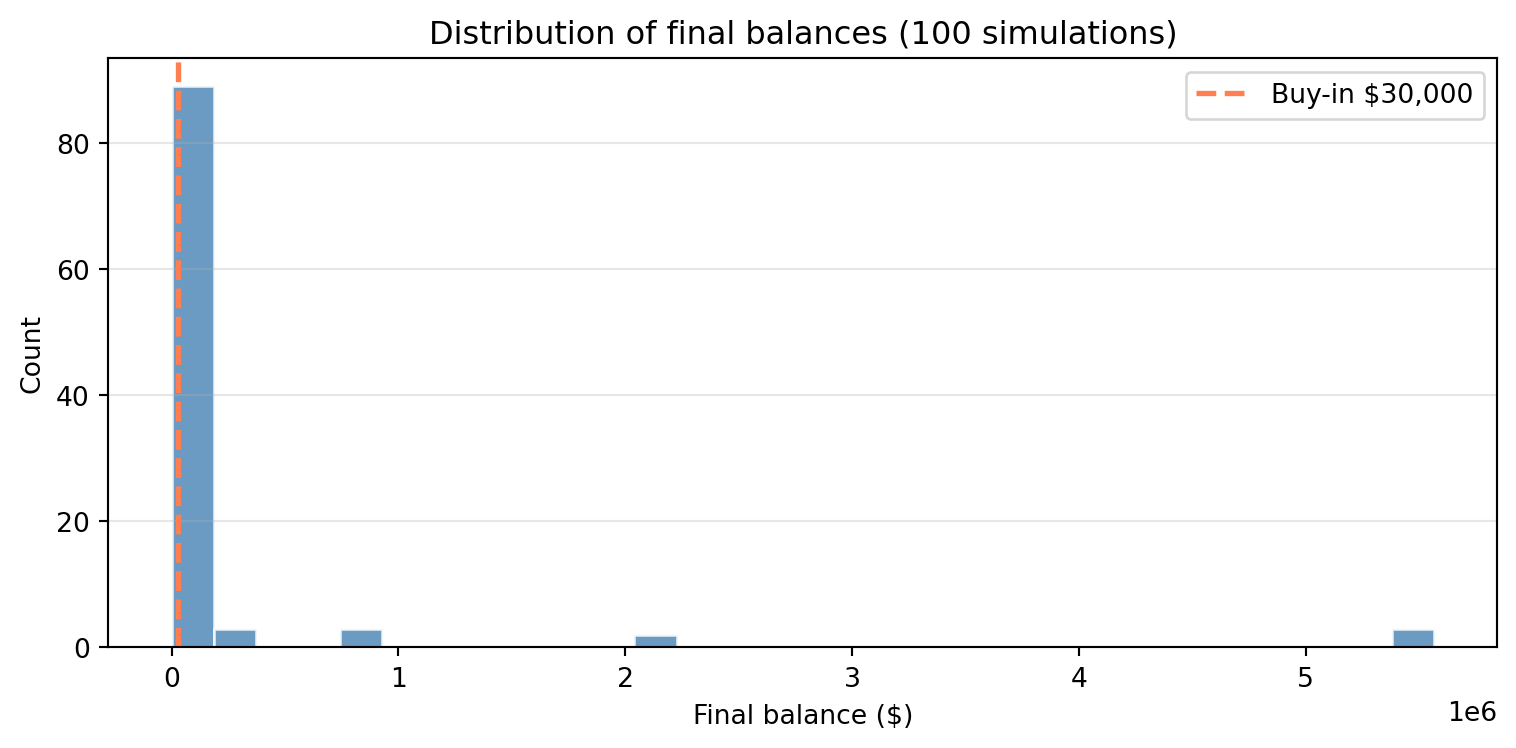
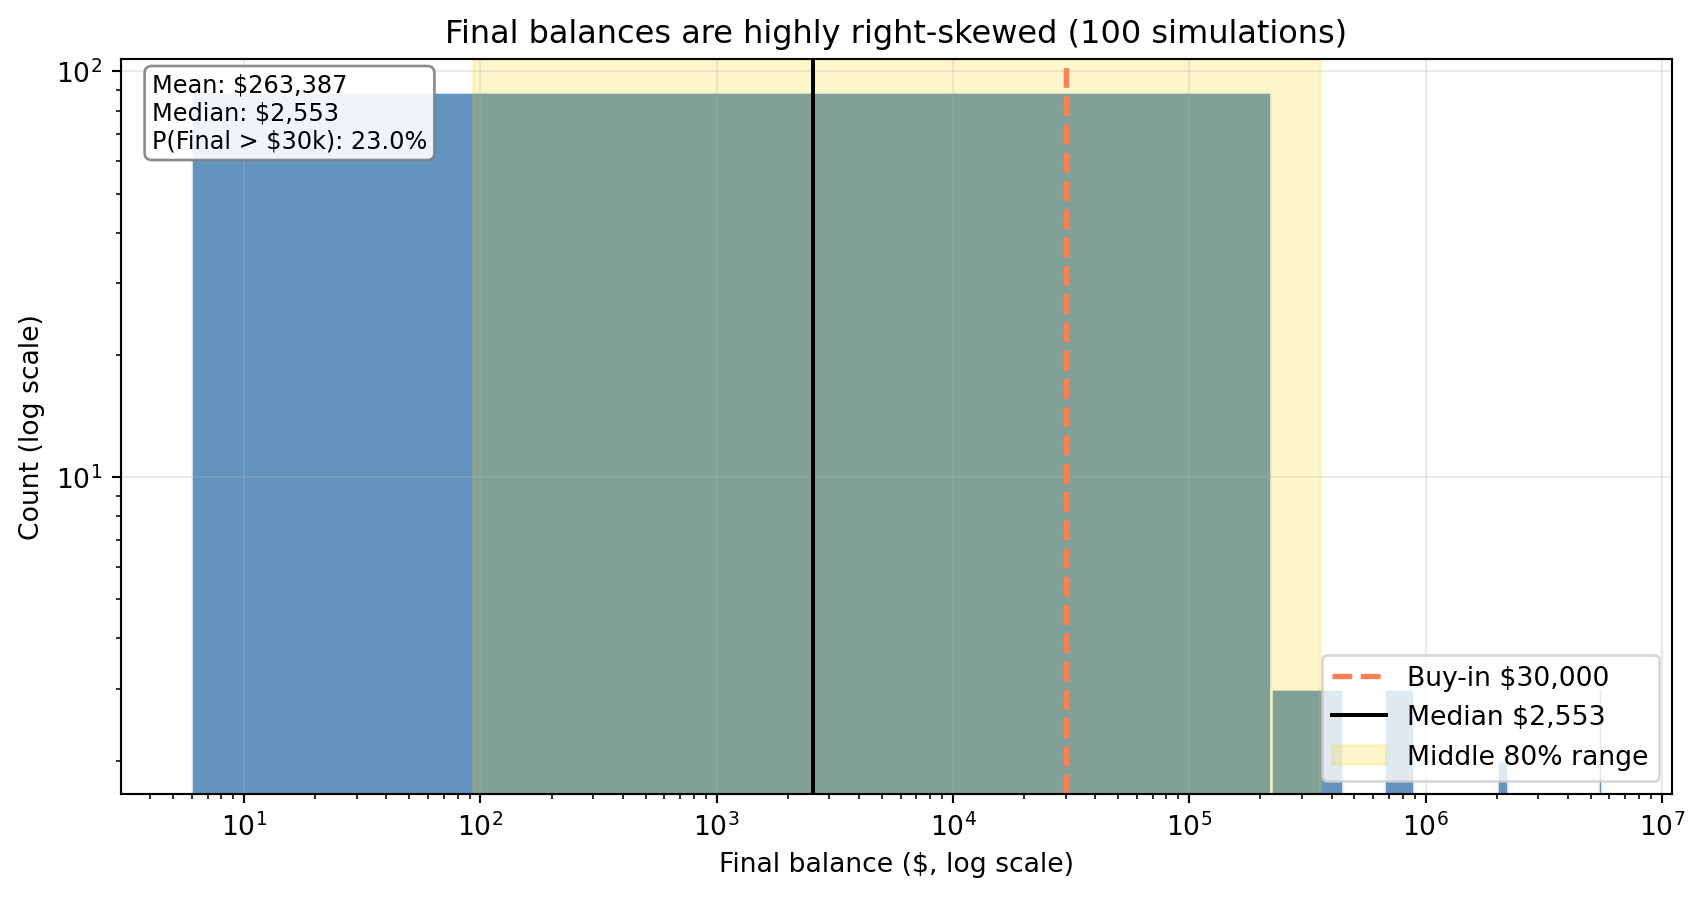
Changes

diff --git a/index.html b/index.html
@@ -71,35 +71,6 @@ pre > code.sourceCode > span > a:first-child::before { text-decoration: underlin
 <link href="index_files/libs/bootstrap/bootstrap-icons.css" rel="stylesheet">
 <link href="index_files/libs/bootstrap/bootstrap-9e3ffae467580fdb927a41352e75a2e0.min.css" rel="stylesheet" append-hash="true" id="quarto-bootstrap" data-mode="light">
 
-  <script src="https://cdnjs.cloudflare.com/polyfill/v3/polyfill.min.js?features=es6"></script>
-  <script src="https://cdn.jsdelivr.net/npm/mathjax@3/es5/tex-chtml-full.js" type="text/javascript"></script>
-
-<script type="text/javascript">
-const typesetMath = (el) => {
-  if (window.MathJax) {
-    // MathJax Typeset
-    window.MathJax.typeset([el]);
-  } else if (window.katex) {
-    // KaTeX Render
-    var mathElements = el.getElementsByClassName("math");
-    var macros = [];
-    for (var i = 0; i < mathElements.length; i++) {
-      var texText = mathElements[i].firstChild;
-      if (mathElements[i].tagName == "SPAN" && texText && texText.data) {
-        window.katex.render(texText.data, mathElements[i], {
-          displayMode: mathElements[i].classList.contains('display'),
-          throwOnError: false,
-          macros: macros,
-          fleqn: false
-        });
-      }
-    }
-  }
-}
-window.Quarto = {
-  typesetMath
-};
-</script>
 
 </head>
 
@@ -222,7 +193,7 @@ window.Quarto = {
 <ul>
 <li><strong>Round figures</strong> for readability (whole dollars for balances, 2-3 decimals for probabilities)</li>
 <li><strong>Interpret results</strong> in your own words outside of code chunks</li>
-<li>Use Quarto inline code (e.g., <code>`{python} round(ev, 0)`</code>) or type values directly</li>
+<li>Type rounded values directly in the narrative (they should match your code output), or use Quarto inline code if your render environment runs Python</li>
 </ul>
 <p><strong>Example:</strong> Instead of printing <code>36000.0</code> from code, write:</p>
 <blockquote class="blockquote">
@@ -263,7 +234,7 @@ Figure&nbsp;1: Generative DAG model for the investment game showing how wealth e
 <section id="expected-value-after-1-flip" class="level3">
 <h3 class="anchored" data-anchor-id="expected-value-after-1-flip">1) Expected Value After 1 Flip</h3>
 <p>Explain whether the expected value of your account balance after one flip is greater than, equal to, or less than $30,000. What is the gain in expected value as a percentage of your buy-in? Based on this simple analysis, state whether you would recommend buying into the game and why.</p>
-<p>The expected value after one flip is <strong>${=python} f”{round(ev_one_flip, 0):,.0f}“}</strong>, which is <strong>{=python} round(ev_gain_pct, 1)}%</strong> above the $30,000 buy-in. So the one-flip expected value is <em>greater than</em> the buy-in. That happens because the gain on heads (+50%) is larger in magnitude than the loss on tails (-40%), and the coin is fair. On this simple metric alone, the game has positive expected value, so one might be tempted to buy in—but as we will see, playing for many years changes the story because of compounding and the high chance of long losing streaks.</p>
+<p>The expected value after one flip is <strong>$31,500</strong>, which is <strong>5.0%</strong> above the $30,000 buy-in. So the one-flip expected value is <em>greater than</em> the buy-in. That happens because the gain on heads (+50%) is larger in magnitude than the loss on tails (-40%), and the coin is fair. On this simple metric alone, the game has positive expected value, so one might be tempted to buy in—but as we will see, playing for many years changes the story because of compounding and the high chance of long losing streaks.</p>
 </section>
 <section id="single-simulation-over-time-narrative-plot" class="level3">
 <h3 class="anchored" data-anchor-id="single-simulation-over-time-narrative-plot">2) Single Simulation Over Time (Narrative + Plot)</h3>
@@ -278,7 +249,7 @@ Figure&nbsp;1: Generative DAG model for the investment game showing how wealth e
 </div>
 </div>
 </div>
-<p>In this run, the balance follows one possible path over <strong>{=python} N_years}</strong> years and ends at <strong>${=python} f”{round(final_balance_single, 0):,.0f}“}</strong>. Whether you would be satisfied depends on your goals: if the path stayed mostly above $30,000 and finished higher, you might be pleased; if it dipped and stayed below the buy-in, you would likely be disappointed. One path alone is not enough to judge the game—we need many simulations to see the distribution of outcomes.</p>
+<p>In this run, the balance follows one possible path over <strong>40</strong> years and ends at <strong>$22,796</strong>. Whether you would be satisfied depends on your goals: if the path stayed mostly above $30,000 and finished higher, you might be pleased; if it dipped and stayed below the buy-in, you would likely be disappointed. One path alone is not enough to judge the game—we need many simulations to see the distribution of outcomes.</p>
 </section>
 <section id="simulations-distribution-of-final-balances" class="level3">
 <h3 class="anchored" data-anchor-id="simulations-distribution-of-final-balances">3) 100 Simulations: Distribution of Final Balances</h3>
@@ -287,18 +258,18 @@ Figure&nbsp;1: Generative DAG model for the investment game showing how wealth e
 <div class="cell-output cell-output-display">
 <div id="q3-dist-100-py" class="quarto-figure quarto-figure-center anchored">
 <figure class="figure">
-<p><img src="index_files/figure-html/q3-dist-100-py-output-1.png" width="758" height="374" class="figure-img"></p>
-<figcaption>Distribution of final balances across 100 simulations</figcaption>
+<p><img src="index_files/figure-html/q3-dist-100-py-output-1.png" width="852" height="449" class="figure-img"></p>
+<figcaption>Distribution of final balances across 100 simulations (log scale with summary annotations)</figcaption>
 </figure>
 </div>
 </div>
 </div>
-<p>Across 100 simulations, the <strong>mean</strong> final balance is <strong><span class="math inline">\({=python} f"{round(mean_final, 0):,.0f}"}** and the **median** is **\)</span>{=python} f”{round(median_final, 0):,.0f}“}</strong>. The probability of ending with more than the initial $30,000 is <strong>{=python} round(prob_above_30k, 2)}</strong> (or {=python} round(prob_above_30k * 100, 1)}%). The median is well below the buy-in, which shows that <em>most</em> paths leave you worse off—even though the one-flip expected value is positive. That is the key tension: the game is favorable in expectation over one flip, but over many years the distribution is skewed and the typical outcome is a loss. Many people would not be satisfied with this risk profile.</p>
+<p>Across 100 simulations, the <strong>mean</strong> final balance is <strong>$263,387</strong> and the <strong>median</strong> is <strong>$2,553</strong>. The probability of ending with more than the initial $30,000 is <strong>about 23%</strong> (about <strong>23 out of 100</strong> simulated paths). The median is well below the buy-in, which shows that <em>most</em> paths leave you worse off—even though the one-flip expected value is positive. That is the key tension: the game is favorable in expectation over one flip, but over many years the distribution is skewed and the typical outcome is a loss. Many people would not be satisfied with this risk profile.</p>
 </section>
 <section id="probability-balance-30000-at-age-75-original-game" class="level3">
 <h3 class="anchored" data-anchor-id="probability-balance-30000-at-age-75-original-game">4) Probability Balance &gt; $30,000 at Age 75 (Original Game)</h3>
 <p>Report the probability that your final balance exceeds $30,000. Interpret what this probability means for your investment decision—does this change your recommendation from Section 1?</p>
-<p>The estimated probability that your final balance exceeds $30,000 at age 75 is <strong>{=python} round(prob_above_30k, 3)}</strong> (about <strong>{=python} round(prob_above_30k * 100, 1)}%</strong>). So in roughly <strong>{=python} round((1 - prob_above_30k) * 100, 0)}%</strong> of paths you end up with <em>less</em> than you put in. This should change the recommendation from Section 1: the one-flip expected value is positive, but the <em>probability</em> of being ahead after many years is relatively low. If your goal is to have a good chance of at least preserving your initial investment, the original full-balance-at-risk game is hard to recommend; the high variance and negative skew mean that most of the time you lose.</p>
+<p>The estimated probability that your final balance exceeds $30,000 at age 75 is <strong>about 23%</strong> (or <strong>0.23</strong> as a proportion). So in roughly <strong>77%</strong> of paths you end up with <em>less</em> than you put in. This should change the recommendation from Section 1: the one-flip expected value is positive, but the <em>probability</em> of being ahead after many years is relatively low. If your goal is to have a good chance of at least preserving your initial investment, the original full-balance-at-risk game is hard to recommend; the high variance and negative skew mean that most of the time you lose.</p>
 </section>
 <section id="modified-strategy-bet-exactly-25-each-round" class="level3">
 <h3 class="anchored" data-anchor-id="modified-strategy-bet-exactly-25-each-round">5) Modified Strategy (Bet Exactly 25% Each Round)</h3>
@@ -307,13 +278,13 @@ Figure&nbsp;1: Generative DAG model for the investment game showing how wealth e
 <div class="cell-output cell-output-display">
 <div id="q5-modified-25pct-py" class="quarto-figure quarto-figure-center anchored">
 <figure class="figure">
-<p><img src="index_files/figure-html/q5-modified-25pct-py-output-1.png" width="758" height="374" class="figure-img"></p>
-<figcaption>Modified strategy distribution (bet 25% each round)</figcaption>
+<p><img src="index_files/figure-html/q5-modified-25pct-py-output-1.png" width="853" height="449" class="figure-img"></p>
+<figcaption>Modified strategy distribution (bet 25% each round) with comparison annotations</figcaption>
 </figure>
 </div>
 </div>
 </div>
-<p>Under the <strong>25%-at-risk</strong> strategy, the probability of ending above $30,000 is <strong>{=python} round(prob_25_above_30k, 2)}</strong>, compared with <strong>{=python} round(prob_above_30k, 2)}</strong> for the original game. The modified strategy is <strong>less risky</strong>: outcomes are less spread out and the chance of finishing ahead is higher. The <strong>original</strong> strategy has <strong>better upside</strong> (some paths reach very high balances) but also much worse downside (many paths end near zero). For most people, the <strong>25% strategy is the better recommendation</strong>: you give up some extreme gains in exchange for a much higher probability of preserving or growing wealth. The Kelly Criterion (Section 6) gives a principled way to choose how much to risk; 25% is a conservative choice relative to betting the full balance.</p>
+<p>Under the <strong>25%-at-risk</strong> strategy, the probability of ending above $30,000 is <strong>about 61%</strong>, compared with <strong>about 23%</strong> for the original game. The modified strategy is <strong>less risky</strong>: outcomes are less spread out and the chance of finishing ahead is higher. The <strong>original</strong> strategy has <strong>better upside</strong> (some paths reach very high balances) but also much worse downside (many paths end near zero). For most people, the <strong>25% strategy is the better recommendation</strong>: you give up some extreme gains in exchange for a much higher probability of preserving or growing wealth. The Kelly Criterion (Section 6) gives a principled way to choose how much to risk; 25% is a conservative choice relative to betting the full balance.</p>
 </section>
 <section id="the-kelly-criterion" class="level3">
 <h3 class="anchored" data-anchor-id="the-kelly-criterion">6) The Kelly Criterion</h3>
